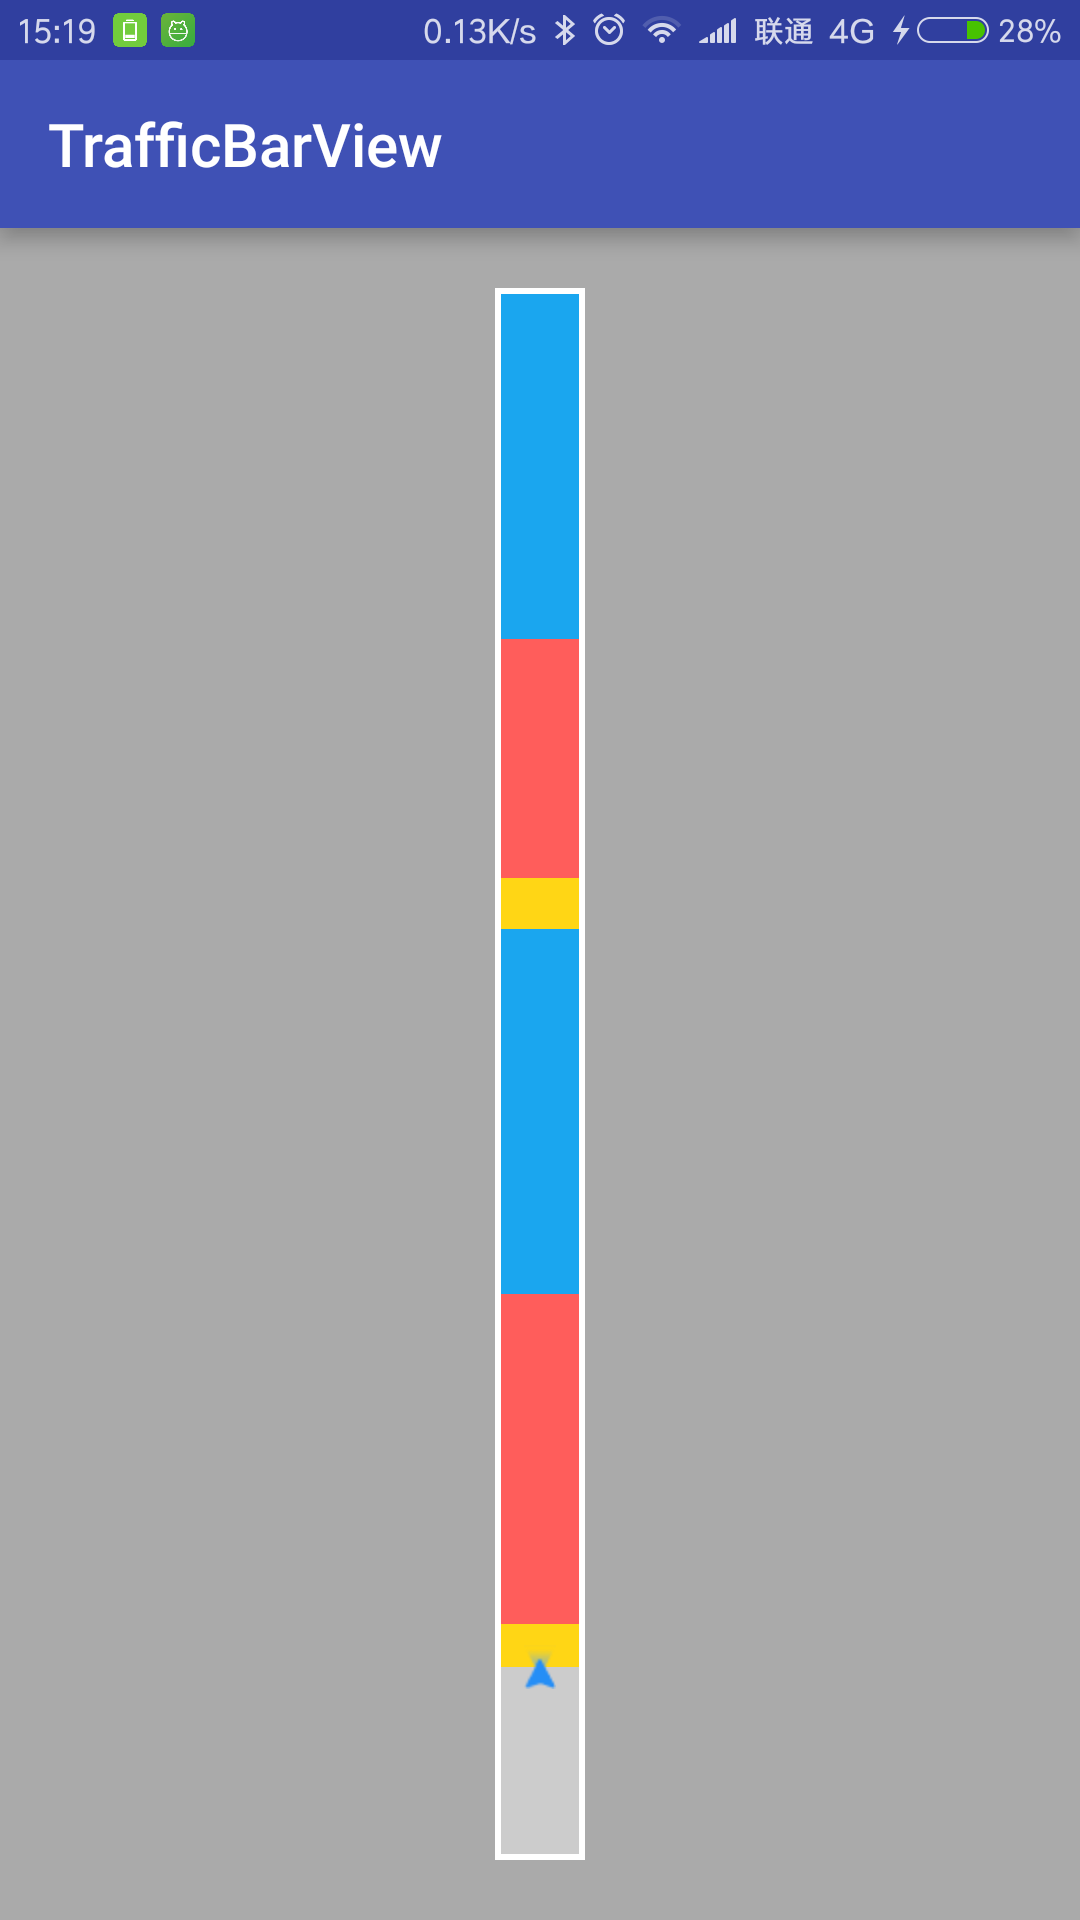
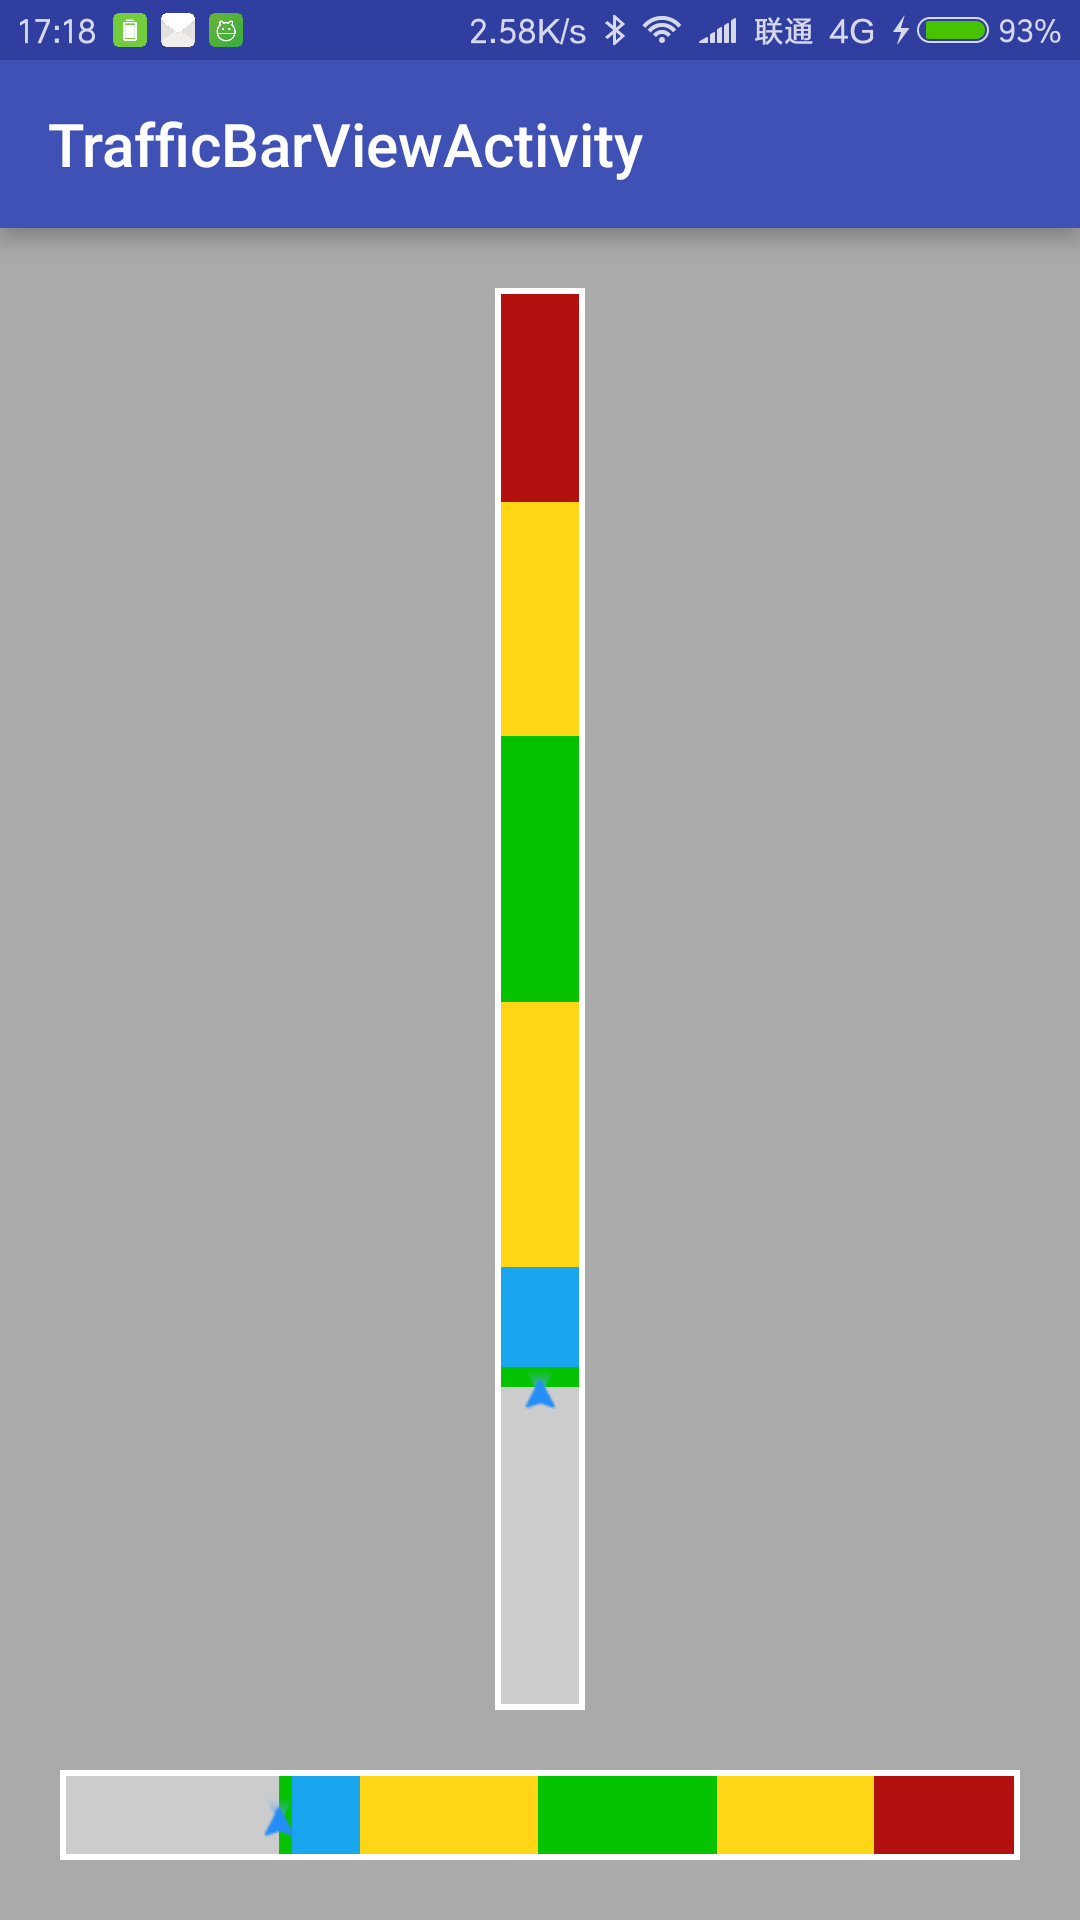
Add orientation attribute for TrafficBarView

diff --git a/AndroidUIDemos/app/src/main/java/org/mazhuang/androiduidemos/view/TrafficBarView.java b/AndroidUIDemos/app/src/main/java/org/mazhuang/androiduidemos/view/TrafficBarView.java
@@ -1,6 +1,7 @@
 package org.mazhuang.androiduidemos.view;
 
 import android.content.Context;
+import android.content.res.TypedArray;
 import android.graphics.Bitmap;
 import android.graphics.BitmapFactory;
 import android.graphics.Canvas;
@@ -11,6 +12,7 @@ import android.os.Build;
 import android.util.AttributeSet;
 import android.view.ViewTreeObserver;
 import android.widget.ImageView;
+import android.widget.LinearLayout;
 
 import org.mazhuang.androiduidemos.R;
 
@@ -34,19 +36,20 @@ public class TrafficBarView extends ImageView {
     private float mTotalDistance;
     private int mDistanceToEnd;
     private int mBorderSize = 6; // in px
+    private int mOrientation;
 
     public TrafficBarView(Context context) {
-        super(context);
-        init();
+        this(context, null);
     }
 
     public TrafficBarView(Context context, AttributeSet attrs) {
         super(context, attrs);
-        init();
-    }
 
-    public TrafficBarView(Context context, AttributeSet attrs, int defStyleAttr) {
-        super(context, attrs, defStyleAttr);
+        TypedArray ta = context.obtainStyledAttributes(attrs, R.styleable.TrafficBarView);
+        mOrientation = ta.getInt(R.styleable.TrafficBarView_android_orientation, LinearLayout.VERTICAL);
+
+        ta.recycle();
+
         init();
     }
 
@@ -67,6 +70,13 @@ public class TrafficBarView extends ImageView {
                     }
                 }
             });
+        }
+    }
+
+    public void serOrientation(int orientation) {
+        if (mOrientation != orientation) {
+            mOrientation = orientation;
+            update(mDistanceToEnd);
         }
     }
 
@@ -100,75 +110,154 @@ public class TrafficBarView extends ImageView {
     public Bitmap produceFinalBitmap() {
         if (mData == null) {
             return null;
-        } else {
-            mPaint.setStyle(Paint.Style.FILL);
-
-            int width = getWidth();
-            int height = getHeight();
-
-            if (width <= 4*mBorderSize || height <= 4*mBorderSize) {
-                mBorderSize = 0;
-            }
-
-            Bitmap fakeCanvas = Bitmap.createBitmap(width, height,
-                    Bitmap.Config.ARGB_8888);
-            Canvas canvas = new Canvas(fakeCanvas);
-
-            // draw background
-            mPaint.setColor(mBackgroundColor);
-            mColorRectF.set(0, 0, width, height);
-            canvas.drawRect(mColorRectF, mPaint);
-
-            // draw traffic segments
-            float drawedDistance = 0.0f;
-            for (TrafficSegment segment : mData) {
-                int color = mNoDateColor;
-                switch (segment.mTrafficLevel) {
-                    case TrafficSegment.TRAFFIC_LEVEL_NO_DATA:
-                        color = mNoDateColor;
-                        break;
-                    case TrafficSegment.TRAFFIC_LEVEL_GOOD:
-                        color = mGoodColor;
-                        break;
-                    case TrafficSegment.TRAFFIC_LEVEL_OKAY:
-                        color = mOkayColor;
-                        break;
-                    case TrafficSegment.TRAFFIC_LEVEL_BAD:
-                        color = mBadColor;
-                        break;
-                    case TrafficSegment.S_TRAFFIC_LEVEL_VERY_BAD:
-                        color = mVeryBadColor;
-                        break;
-                }
-                mPaint.setColor(color);
-
-                float bottom = mBorderSize + (height - mBorderSize*2) * ((mTotalDistance - drawedDistance) / mTotalDistance);
-                drawedDistance += segment.mLength;
-                float top = mBorderSize + (height - mBorderSize*2) * ((mTotalDistance - drawedDistance) / mTotalDistance);
-                mColorRectF.set(mBorderSize, top, width-mBorderSize, bottom);
-
-                canvas.drawRect(mColorRectF, mPaint);
-            }
-
-            // drawable passed
-            float top = mBorderSize + (height - mBorderSize*2) * (mDistanceToEnd / mTotalDistance);
-            mColorRectF.set(mBorderSize, top, width-mBorderSize, height-mBorderSize);
-            mPaint.setColor(mPassColor);
-            canvas.drawRect(mColorRectF, mPaint);
-
-            // drawable progress loc
-            Bitmap locBitmap = BitmapFactory.decodeResource(getResources(), R.drawable.progress_loc);
-            int locHeight = locBitmap.getHeight();
-            if (top > height - mBorderSize - (locHeight / 2)) {
-                top = height - mBorderSize - locHeight;
-            } else {
-                top = Math.max(mBorderSize, top - (locHeight / 2));
-            }
-            canvas.drawBitmap(locBitmap, (width-locBitmap.getWidth())/2, top, null);
-            locBitmap.recycle();
-
-            return fakeCanvas;
         }
+
+        if (mOrientation == LinearLayout.HORIZONTAL) {
+            return produceHorizontalBitmap();
+        } else {
+            return produceVerticalBitmap();
+        }
+    }
+
+    public Bitmap produceHorizontalBitmap() {
+
+        mPaint.setStyle(Paint.Style.FILL);
+
+        int width = getWidth();
+        int height = getHeight();
+
+        if (width <= 4 * mBorderSize || height <= 4 * mBorderSize) {
+            mBorderSize = 0;
+        }
+
+        Bitmap fakeCanvas = Bitmap.createBitmap(width, height,
+                Bitmap.Config.ARGB_8888);
+        Canvas canvas = new Canvas(fakeCanvas);
+
+        // draw background
+        mPaint.setColor(mBackgroundColor);
+        mColorRectF.set(0, 0, width, height);
+        canvas.drawRect(mColorRectF, mPaint);
+
+        // draw traffic segments
+        float drawedDistance = 0.0f;
+        for (TrafficSegment segment : mData) {
+            int color = mNoDateColor;
+            switch (segment.mTrafficLevel) {
+                case TrafficSegment.TRAFFIC_LEVEL_NO_DATA:
+                    color = mNoDateColor;
+                    break;
+                case TrafficSegment.TRAFFIC_LEVEL_GOOD:
+                    color = mGoodColor;
+                    break;
+                case TrafficSegment.TRAFFIC_LEVEL_OKAY:
+                    color = mOkayColor;
+                    break;
+                case TrafficSegment.TRAFFIC_LEVEL_BAD:
+                    color = mBadColor;
+                    break;
+                case TrafficSegment.S_TRAFFIC_LEVEL_VERY_BAD:
+                    color = mVeryBadColor;
+                    break;
+            }
+            mPaint.setColor(color);
+
+            float left = mBorderSize + (width - mBorderSize * 2) * (drawedDistance / mTotalDistance);
+            drawedDistance += segment.mLength;
+            float right = mBorderSize + (width - mBorderSize * 2) * (drawedDistance / mTotalDistance);
+            mColorRectF.set(left, mBorderSize, right, height - mBorderSize);
+
+            canvas.drawRect(mColorRectF, mPaint);
+        }
+
+        // drawable passed
+        float right = mBorderSize + (width - mBorderSize * 2) * ((mTotalDistance - mDistanceToEnd) / mTotalDistance);
+        mColorRectF.set(mBorderSize, mBorderSize, right, height - mBorderSize);
+        mPaint.setColor(mPassColor);
+        canvas.drawRect(mColorRectF, mPaint);
+
+        // drawable progress loc
+        Bitmap locBitmap = BitmapFactory.decodeResource(getResources(), R.drawable.progress_loc);
+        int locWidth = locBitmap.getWidth();
+        if (right < mBorderSize + (locWidth / 2)) {
+            right = mBorderSize + locWidth;
+        } else {
+            right = Math.min(width - mBorderSize, right + (locWidth / 2));
+        }
+        canvas.drawBitmap(locBitmap, right - locWidth, (height - locBitmap.getHeight()) / 2, null);
+        locBitmap.recycle();
+
+        return fakeCanvas;
+    }
+
+    public Bitmap produceVerticalBitmap() {
+        mPaint.setStyle(Paint.Style.FILL);
+
+        int width = getWidth();
+        int height = getHeight();
+
+        if (width <= 4 * mBorderSize || height <= 4 * mBorderSize) {
+            mBorderSize = 0;
+        }
+
+        Bitmap fakeCanvas = Bitmap.createBitmap(width, height,
+                Bitmap.Config.ARGB_8888);
+        Canvas canvas = new Canvas(fakeCanvas);
+
+        // draw background
+        mPaint.setColor(mBackgroundColor);
+        mColorRectF.set(0, 0, width, height);
+        canvas.drawRect(mColorRectF, mPaint);
+
+        // draw traffic segments
+        float drawedDistance = 0.0f;
+        for (TrafficSegment segment : mData) {
+            int color = mNoDateColor;
+            switch (segment.mTrafficLevel) {
+                case TrafficSegment.TRAFFIC_LEVEL_NO_DATA:
+                    color = mNoDateColor;
+                    break;
+                case TrafficSegment.TRAFFIC_LEVEL_GOOD:
+                    color = mGoodColor;
+                    break;
+                case TrafficSegment.TRAFFIC_LEVEL_OKAY:
+                    color = mOkayColor;
+                    break;
+                case TrafficSegment.TRAFFIC_LEVEL_BAD:
+                    color = mBadColor;
+                    break;
+                case TrafficSegment.S_TRAFFIC_LEVEL_VERY_BAD:
+                    color = mVeryBadColor;
+                    break;
+            }
+            mPaint.setColor(color);
+
+            float bottom = mBorderSize + (height - mBorderSize * 2) * ((mTotalDistance - drawedDistance) / mTotalDistance);
+            drawedDistance += segment.mLength;
+            float top = mBorderSize + (height - mBorderSize * 2) * ((mTotalDistance - drawedDistance) / mTotalDistance);
+            mColorRectF.set(mBorderSize, top, width - mBorderSize, bottom);
+
+            canvas.drawRect(mColorRectF, mPaint);
+        }
+
+        // drawable passed
+        float top = mBorderSize + (height - mBorderSize * 2) * (mDistanceToEnd / mTotalDistance);
+        mColorRectF.set(mBorderSize, top, width - mBorderSize, height - mBorderSize);
+        mPaint.setColor(mPassColor);
+        canvas.drawRect(mColorRectF, mPaint);
+
+        // drawable progress loc
+        Bitmap locBitmap = BitmapFactory.decodeResource(getResources(), R.drawable.progress_loc);
+        int locHeight = locBitmap.getHeight();
+        if (top > height - mBorderSize - (locHeight / 2)) {
+            top = height - mBorderSize - locHeight;
+        } else {
+            top = Math.max(mBorderSize, top - (locHeight / 2));
+        }
+        canvas.drawBitmap(locBitmap, (width - locBitmap.getWidth()) / 2, top, null);
+        locBitmap.recycle();
+
+        return fakeCanvas;
     }
 
     public static class TrafficSegment {

diff --git a/AndroidUIDemos/app/src/main/java/org/mazhuang/androiduidemos/activity/TrafficBarViewActivity.java b/AndroidUIDemos/app/src/main/java/org/mazhuang/androiduidemos/activity/TrafficBarViewActivity.java
@@ -1,7 +1,6 @@
 package org.mazhuang.androiduidemos.activity;
 
 import android.os.Handler;
-import android.support.v7.app.AppCompatActivity;
 import android.os.Bundle;
 
 import org.mazhuang.androiduidemos.R;
@@ -14,6 +13,7 @@ import java.util.Random;
 public class TrafficBarViewActivity extends BaseActivity {
 
     private TrafficBarView mTrafficBar;
+    private TrafficBarView mHorizontalTrafficBar;
     private Handler mHandler = new Handler();
     private long mRefreshInterval = 3000;
     private Runnable mUpdateTrafficCallback;
@@ -21,7 +21,7 @@ public class TrafficBarViewActivity extends BaseActivity {
     @Override
     protected void onCreate(Bundle savedInstanceState) {
         super.onCreate(savedInstanceState);
-        setContentView(R.layout.activity_custom_views);
+        setContentView(R.layout.activity_traffic_bar_view);
 
         initViews();
 
@@ -43,6 +43,7 @@ public class TrafficBarViewActivity extends BaseActivity {
 
     private void initViews() {
         mTrafficBar = (TrafficBarView) findViewById(R.id.traffic);
+        mHorizontalTrafficBar = (TrafficBarView) findViewById(R.id.traffic_horizontal);
     }
 
     private void updateData() {
@@ -57,6 +58,8 @@ public class TrafficBarViewActivity extends BaseActivity {
             totalLength += segLength;
         }
 
-        mTrafficBar.update(trafficSegments, (int)(totalLength*random.nextFloat()));
+        int disToEnd = (int)(totalLength*random.nextFloat());
+        mTrafficBar.update(trafficSegments, disToEnd);
+        mHorizontalTrafficBar.update(trafficSegments, disToEnd);
     }
 }
